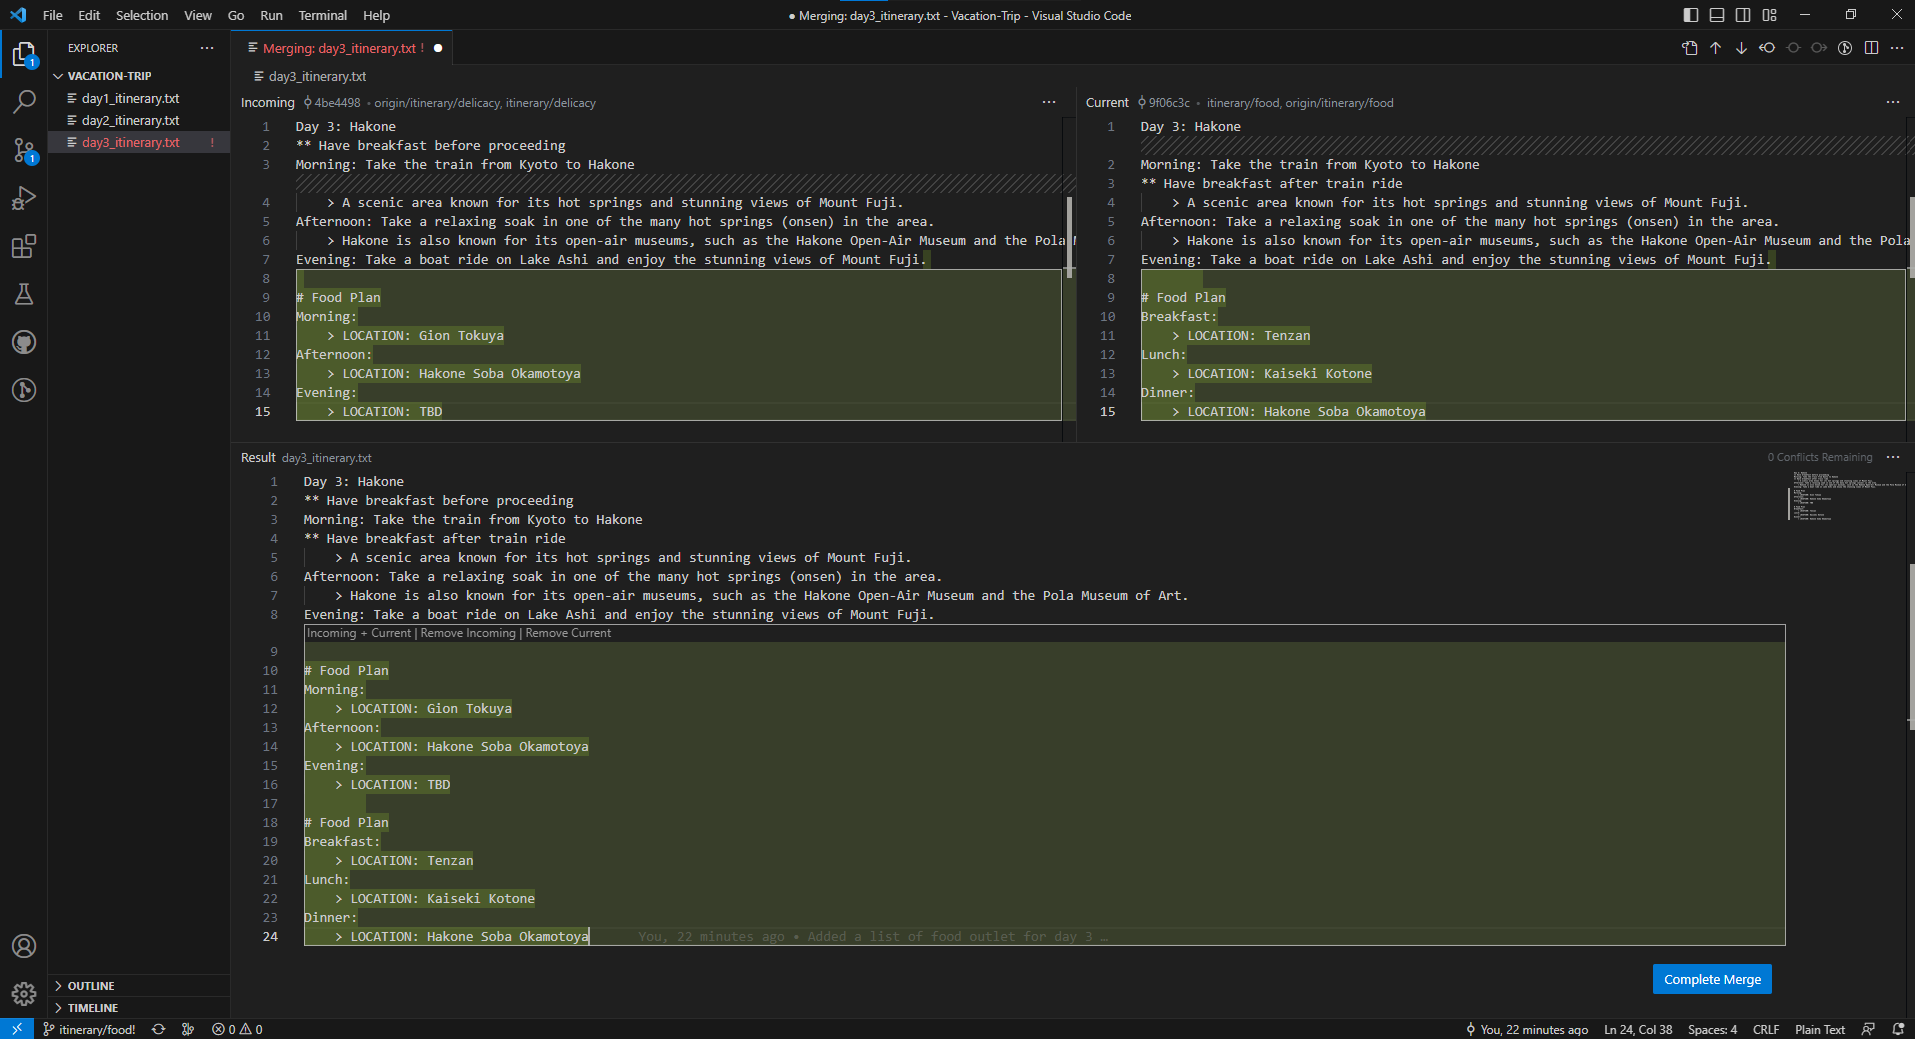
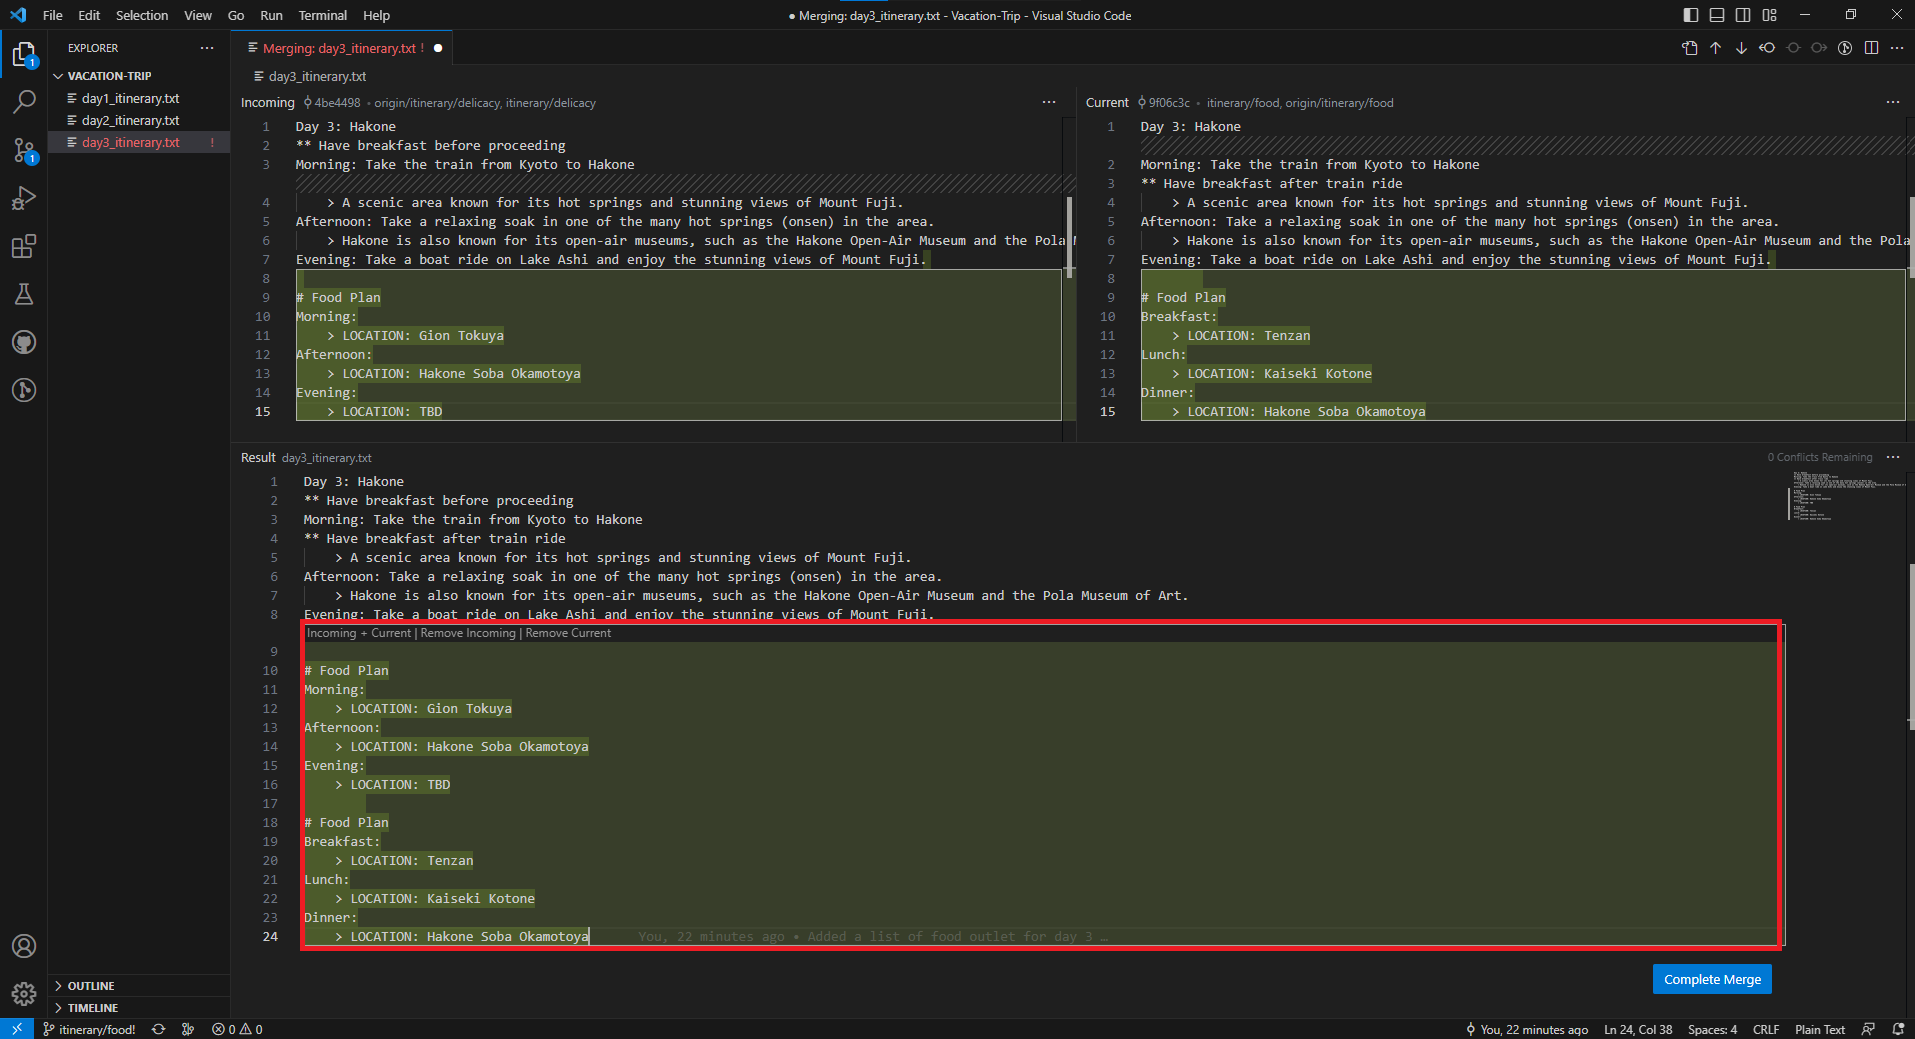
Updated the stories with additional notes

Changed region(s): [[0.154, 0.8932, 0.9243, 0.924], [0.154, 0.5852, 0.9243, 0.616]]

diff --git a/Learning Git with Real-Life Applications/4. Collaboration as A Team/4._Merging_Different_Branches.md b/Learning Git with Real-Life Applications/4. Collaboration as A Team/4._Merging_Different_Branches.md
@@ -6,11 +6,10 @@
 
 ## Objective
 1. Learn of possible merge conflict from merging different branches.
-2. Handling of merge conflict
-3. Understanding the different ways to handle merge conflict
+2. Learn how to handle the merge conflict (Accept combination of both)
 
 
-## Storyline 4 (Bao Jin)
+## Storyline 4
 1. Developer A and B decided to begin planning for their food on day 3 in **day3_itinerary.txt** by listing the different food outlets available. They decided that they did not want to mix their food planning with their literary planning. 
 
 2. Developer A decided to create another branch from the `itinerary/activities` branch.
@@ -50,7 +49,7 @@
 
         ![git branch main](../images/4_4/4_4_git_new_branch.png)
 
-        The `git checkout -b <new_branch_name>` command can be thought of as a combination of `git branch <new_branch_name>` and `git switch <new_branch_name>`.
+        >**Note:** The `git checkout -b <new_branch_name>` command will create a new branch and switch to it. It can be thought of as a combination of `git branch <new_branch_name>` and `git switch <new_branch_name>`.
 
         
     - Check the current branch location with `git branch`
@@ -243,11 +242,15 @@
 
     ![git switch itinerary/delicacy](../images/4_4/4_4_git_merge_editor.png)
 
-    - Accept changes from both sides.
+    - Accept changes from both sides by clicking the **Accept Incoming** and **Accept Current**
+    
+    ![git switch itinerary/delicacy](../images/4_4/4_4_git_merge_editor_accept_buttons.png)
+
+    - The changes will appear on the bottom **Result** editor
 
     ![git switch itinerary/delicacy](../images/4_4/4_4_git_accept_both_changes.png)
 
-    - Perform manual changes to include info from both sides
+    - Perform manual changes at the **Result** editor at the bottom to include info from both sides
 
     ![git switch itinerary/delicacy](../images/4_4/4_4_git_manual_resolve.png)
     
@@ -348,15 +351,15 @@
 
 
 ## Lesson Learnt
-1. Recap branch creation and publishing branch to remote repository
+1. Recap branch creation and publishing branch to remote repository.
 
-2. Recap basic flow of any updates
+2. Recap basic flow of staging changes, committing the change, pulling updates to local repo, pushing updates to remote repo.
 
-3. Understand branch merger
+3. Understand how to merge branch.
 
-4. Understand conflicts during branch merger
+4. Understand merge conflict arising from merging branch.
 
-5. Understand manual conflict resolution
+5. Understand manual conflict resolution (accept a combination of both changes).
 
-6. Understand that changes to different lines in the same file will not lead to merge conflict.
+6. Understand that changes to different lines in the same file may not lead to merge conflict.
 

diff --git a/Learning Git with Real-Life Applications/4. Collaboration as A Team/5._Making_A_Pull_Request.md b/Learning Git with Real-Life Applications/4. Collaboration as A Team/5._Making_A_Pull_Request.md
@@ -4,8 +4,9 @@
 1. Complete the previous tasks.
 
 ## Objective
-1. Learn what is a pull request
-2. Learn how to perform a pull request
+1. Learn what is a pull request.
+2. Learn how to perform a pull request.
+3. Understand why pull request is used.
 
 ## Purpose of a Pull Request
 1. Collaboration
@@ -146,10 +147,17 @@
 9. After the review was done by Developer B, Developer A proceeded to accept the pull request and enable the merge
 
     - Developer A opens  the github webpage and opens the repository
+    ![Github webpage](../images/4_5/4_5_github_repository_main_pending_pull_req.png)
 
     - Developer A clicks the **Pull request** button to navigate to the pull request page.
+    ![Github pull request list](../images/4_5/4_5_github_pull_request_view_request.png)
 
-    - Developer A clicks merge 
+    - Developer A views the pull request info
+    ![Github pull request list](../images/4_5/4_5_github_pull_request_full_view.png)
+    
+    - Developer A scrolls down and saw that review was done.
+    
+    - Developer A scrolls down to the **Merge pull request** button and click it. 
 
 10. Developer A checks the `master` repository after the merger.
 

diff --git a/Learning Git with Real-Life Applications/4. Collaboration as A Team/3._Editing&Deleting_The_ Same_File.md b/Learning Git with Real-Life Applications/4. Collaboration as A Team/3._Editing&Deleting_The_ Same_File.md
@@ -3,12 +3,13 @@
 ## Pre-requisite
 1. Complete the previous tasks.
 2. Check that the files **day4_itinerary.txt** has been created in the initial file setup.
+3. Check that the branch `itinerary/activities` has been created.
 
 ## Objective
 1. Learn of possible merge conflict from deleting files
-2. Handling of merge conflict
+2. Learn how to handle merge conflict (Accept one change)
 
-## Storyline 3 (Bao Jin)
+## Storyline 3
 1. Developer A continues to work on the itinerary. Both of them worked within the itinerary/activities branch. 
 
     - Developer A checks the branches with `git branch -a`
@@ -218,8 +219,11 @@
 
 
 ## Lesson Learn
-1. Potential conflicts from file deletion and how to handle it.
+1. Recap basic flow of staging changes, committing the change, pulling updates to local repo, pushing updates to remote repo.
 
-2. Importance of communication as a team.
+2. Recap need to fetch and pull changes from remote repository before pushing changes.
 
-3. Fetch and pull changes from remote repository before pushing changes.
+3. Potential conflicts from file deletion.
+
+4. Handling of merge conflict
+

diff --git a/Learning Git with Real-Life Applications/4. Collaboration as A Team/2._Working_On_The_Same_Branch.md b/Learning Git with Real-Life Applications/4. Collaboration as A Team/2._Working_On_The_Same_Branch.md
@@ -1,3 +1,15 @@
+# Working on the same branch
+
+## Pre-requisite
+1. Complete the previous tasks.
+2. Check that the files **day1.itinerary.txt** has been created in the initial file setup.
+
+## Objective
+1. Learn of possible merge conflict when pulling updates from the same branch
+2. Understanding the different methods to handle merge conflict
+3. Learn how to handle merge conflict (Accept both changes)
+
+
 ## Storyline 2 (Xun)
 1. Developer A edits text file `day1_itinerary.txt` for Day 1 itinerary. While planning the schedule, he has difficulty choosing between one of the two places.
 
@@ -157,3 +169,10 @@
     ```
 
     ![Git push resolved merge conflict](../images/4_2/4_2_git_push_resolved_merge_conflict.png)
+
+## Lesson Learnt
+1. Recap basic flow of staging changes, committing the change, pulling updates to local repo, pushing updates to remote repo.
+
+2. Potential conflicts arising when updating the local repo from the remote repo.
+
+3. Handling of merge conflict 

diff --git a/Learning Git with Real-Life Applications/4. Collaboration as A Team/1._Contributing_Individually.md b/Learning Git with Real-Life Applications/4. Collaboration as A Team/1._Contributing_Individually.md
@@ -1,4 +1,14 @@
-## Storyline 1 (Xun)
+# Contribution Individually
+
+## Pre-requisite
+1. Have the repository setup
+
+## Objective
+1. Learn how to create a branch
+2. Learn how to stage changes and commit
+3. Learn how to update remote repository
+
+## Storyline 1
 
 1.  Developer A is tasked to come up with the itinerary for day 1.
 
@@ -106,3 +116,9 @@
     ```
 
     ![GitHub Login Page](../images/4_1/4_1_8.png)
+
+## Lesson Learnt
+1. Learn how to create a branch
+
+2. Learn basic flow of staging changes, committing the change, pulling updates to local repo, pushing updates to remote repo.
+
